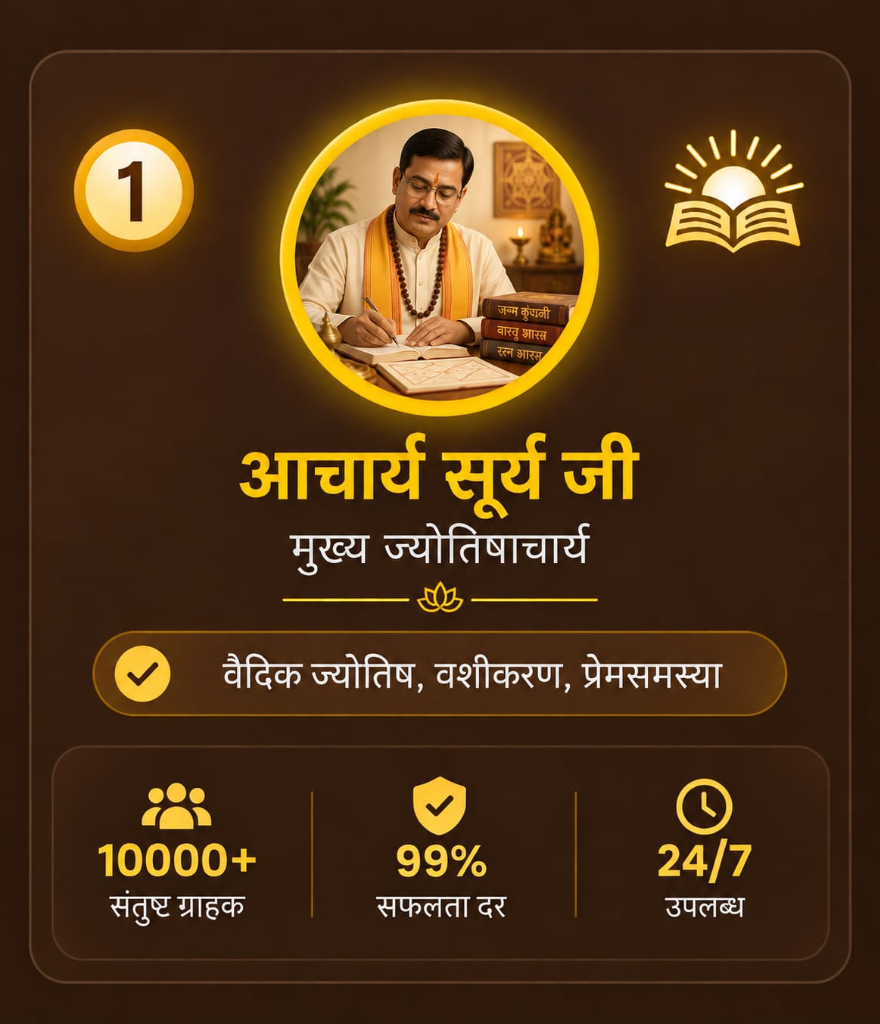
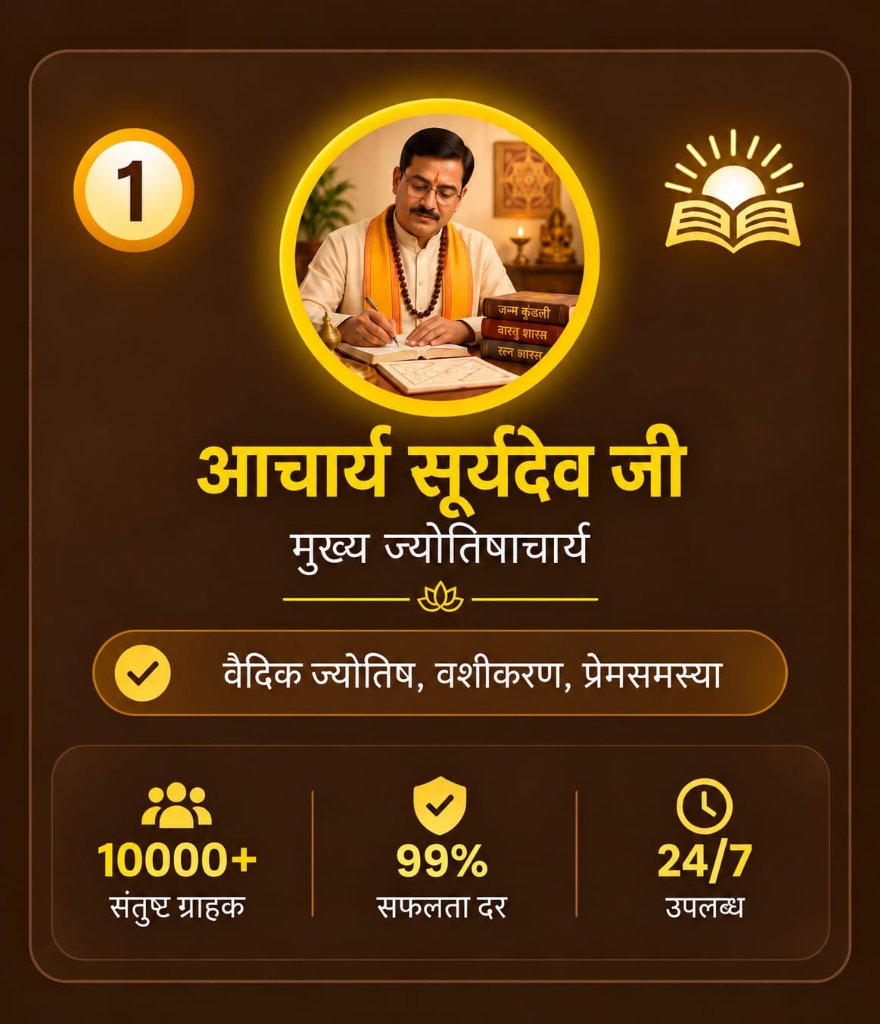
Update Sansthan address to Prayagraj Sobhnath temple and update 1st astrologer card to Acharya Suryadev Ji

diff --git a/client/src/pages/AboutPage.tsx b/client/src/pages/AboutPage.tsx
@@ -1,5 +1,5 @@
 import { Link } from 'react-router-dom';
-import { Shield, Heart, Award, Compass, Eye, Target, Calendar, CheckCircle2, Sparkles } from 'lucide-react';
+import { Shield, Heart, Award, Compass, Eye, Target, Calendar, CheckCircle2, Sparkles, MapPin } from 'lucide-react';
 import { SectionHeading } from '@/components/ui/SectionHeading';
 import { Reveal } from '@/components/ui/Reveal';
 import { CTASection } from '@/components/sections/CTASection';
@@ -92,6 +92,14 @@ export function AboutPage() {
             name: 'Sangam Jyotish Sansthan',
             alternateName: 'संगम ज्योतिष संस्थान',
             url: 'https://sangamjyotish.com',
+            address: {
+              '@type': 'PostalAddress',
+              streetAddress: 'शोभनाथ मंदिर (Sobhnath Temple), बेलन नदी के तट पर',
+              addressLocality: 'कोरांव (Koraon), प्रयागराज (Prayagraj)',
+              addressRegion: 'Uttar Pradesh',
+              postalCode: '212306',
+              addressCountry: 'IN',
+            },
           },
         }}
       />
@@ -193,6 +201,36 @@ export function AboutPage() {
         <div className="container-px">
           <Reveal>
             <KundliChartSection />
+          </Reveal>
+        </div>
+      </section>
+
+      {/* Sacred Location & Temple Heritage */}
+      <section className="section-pad bg-cream-100/60 border-y border-gold-200/40">
+        <div className="container-px">
+          <Reveal>
+            <div className="mx-auto max-w-4xl rounded-3xl border border-gold-400/30 bg-gradient-to-br from-maroon-950 via-maroon-900 to-navy-950 p-8 sm:p-10 shadow-card text-cream-50 relative overflow-hidden">
+              <div className="starfield absolute inset-0 opacity-20" aria-hidden />
+              <div className="relative z-10 flex flex-col md:flex-row items-center gap-6 md:gap-8">
+                <div className="flex h-20 w-20 flex-shrink-0 items-center justify-center rounded-2xl bg-gold-400/20 text-gold-300 ring-2 ring-gold-400/30 shadow-soft">
+                  <MapPin className="h-10 w-10 text-gold-400" />
+                </div>
+                <div className="text-center md:text-left">
+                  <span className="inline-block rounded-full bg-gold-400/15 border border-gold-400/30 px-3.5 py-1 text-xs font-semibold text-gold-300 mb-2">
+                    पावन तीर्थ स्थल एवं मुख्य केंद्र
+                  </span>
+                  <h3 className="font-devanagari text-2xl font-bold text-cream-50 sm:text-3xl" lang="hi">
+                    शोभनाथ मंदिर (Sobhnath Temple), बेलन नदी तट
+                  </h3>
+                  <p className="mt-2 text-sm sm:text-base text-cream-100/85 leading-relaxed" lang="hi">
+                    संगम ज्योतिष संस्थान का पावन केंद्र प्रयागराज के कोरांव (212306) में पवित्र बेलन नदी के तट पर स्थित ऐतिहासिक <strong>शोभनाथ मंदिर (Sobhnath Mandir)</strong> के सानिध्य में स्थापित है। इस आध्यात्मिक एवं शांत वातावरण में जातक ऑफलाइन व्यक्तिगत परामर्श एवं पूजन-अनुष्ठान हेतु पधार सकते हैं।
+                  </p>
+                  <p className="mt-3 text-xs sm:text-sm font-medium text-gold-300">
+                    📍 Sangam Jyotish Sansthan, Koraon, Prayagraj, Uttar Pradesh, 212306, India
+                  </p>
+                </div>
+              </div>
+            </div>
           </Reveal>
         </div>
       </section>

diff --git a/client/src/pages/ContactPage.tsx b/client/src/pages/ContactPage.tsx
@@ -34,7 +34,10 @@ export function ContactPage() {
             email: 'contact@sangamjyotish.com',
             address: {
               '@type': 'PostalAddress',
-              addressLocality: 'Varanasi',
+              streetAddress: 'शोभनाथ मंदिर (Sobhnath Temple), बेलन नदी के तट पर',
+              addressLocality: 'कोरांव (Koraon), प्रयागराज (Prayagraj)',
+              addressRegion: 'Uttar Pradesh',
+              postalCode: '212306',
               addressCountry: 'IN',
             },
           },
@@ -163,18 +166,24 @@ export function ContactPage() {
               {/* Address Card */}
               <Reveal delay={300}>
                 <div className="card-premium flex items-start gap-4 p-5">
-                  <div className="flex h-12 w-12 flex-shrink-0 items-center justify-center rounded-2xl bg-navy-50 text-navy-700">
+                  <div className="flex h-12 w-12 flex-shrink-0 items-center justify-center rounded-2xl bg-maroon-50 text-maroon-700">
                     <MapPin className="h-5 w-5" />
                   </div>
                   <div>
                     <h3 className="text-xs font-semibold text-saffron-600 uppercase tracking-wider">
                       संस्थान का पता (Sansthan Address)
                     </h3>
-                    <p className="mt-1 text-sm font-medium text-navy-800">
-                      {siteConfig.address}
+                    <p className="mt-1 text-sm font-bold text-navy-900">
+                      शोभनाथ मंदिर (Sobhnath Temple)
                     </p>
-                    <p className="text-xs text-navy-500 mt-0.5">
-                      ऑफलाइन व्यक्तिगत परामर्श हेतु
+                    <p className="text-xs text-navy-700 mt-0.5">
+                      बेलन नदी के तट पर, कोरांव (Koraon), प्रयागराज, उत्तर प्रदेश - 212306, भारत
+                    </p>
+                    <p className="text-[11px] text-navy-500 mt-1 font-sans">
+                      Sangam Jyotish Sansthan, Prayagraj, Uttar Pradesh, 212306, India
+                    </p>
+                    <p className="text-xs text-maroon-700 font-medium mt-1.5">
+                      ✦ ऑफलाइन व्यक्तिगत परामर्श एवं दर्शन हेतु
                     </p>
                   </div>
                 </div>

diff --git a/client/src/pages/AstrologersPage.tsx b/client/src/pages/AstrologersPage.tsx
@@ -21,12 +21,12 @@ export function AstrologersPage() {
     <div className="bg-cream-50">
       <SEO
         title="हमारे ज्योतिषाचार्य | वैदिक ज्योतिष विशेषज्ञ"
-        description="संगम ज्योतिष संस्थान के अनुभवी एवं विद्वान ज्योतिषाचार्यों से मिलें - आचार्य सूर्य जी, आचार्य हरिओम जी, आचार्य अरुण पंडित एवं माता रेणुका जी से व्यक्तिगत ज्योतिष परामर्श प्राप्त करें।"
+        description="संगम ज्योतिष संस्थान के अनुभवी एवं विद्वान ज्योतिषाचार्यों से मिलें - आचार्य सूर्यदेव जी, आचार्य हरिओम जी, आचार्य अरुण पंडित एवं माता रेणुका जी से व्यक्तिगत ज्योतिष परामर्श प्राप्त करें।"
         canonical="/astrologers"
         keywords={[
           'हमारे ज्योतिषाचार्य',
           'वैदिक ज्योतिष विशेषज्ञ',
-          'आचार्य सूर्य जी',
+          'आचार्य सूर्यदेव जी',
           'आचार्य हरिओम जी',
           'आचार्य अरुण पंडित',
           'माता रेणुका जी ज्योतिषी',

diff --git a/client/src/data/content.ts b/client/src/data/content.ts
@@ -230,6 +230,11 @@ export const faqs = [
     answer:
       'नहीं, हमारा दृष्टिकोण पारंपरिक एवं सात्विक वैदिक उपायों (जैसे जप, ध्यान, दान, सात्विक आचरण और जीवनशैली में सकारात्मक परिवर्तन) पर आधारित है, जो सरल एवं व्यावहारिक होते हैं।',
   },
+  {
+    question: 'संगम ज्योतिष संस्थान का मुख्य केंद्र कहाँ स्थित है और क्या व्यक्तिगत रूप से मिलकर परामर्श लिया जा सकता है?',
+    answer:
+      'संगम ज्योतिष संस्थान का पावन केंद्र प्रयागराज के कोरांव (212306) में बेलन नदी के तट पर स्थित शोभनाथ मंदिर (Sobhnath Temple / Shobhnath Mandir) परिसर में स्थित है। आप पूर्व समय निर्धारित करके व्यक्तिगत रूप से उपस्थित होकर भी परामर्श प्राप्त कर सकते हैं। इसके अतिरिक्त देश-विदेश के जातकों के लिए ऑनलाइन व WhatsApp परामर्श सुविधा भी निरंतर उपलब्ध है।',
+  },
 ];
 
 export interface Stat {

diff --git a/client/src/components/layout/TopBar.tsx b/client/src/components/layout/TopBar.tsx
@@ -1,4 +1,4 @@
-import { Phone, Facebook, Instagram, Youtube } from 'lucide-react';
+import { Phone, Facebook, Instagram, Youtube, MapPin } from 'lucide-react';
 import { siteConfig } from '@/data/siteConfig';
 import { useWhatsAppModal } from '@/context/WhatsAppModalContext';
 
@@ -8,13 +8,19 @@ export function TopBar() {
   return (
     <div className="hidden bg-navy-950 text-cream-100 md:block">
       <div className="container-px flex h-10 items-center justify-between text-sm">
-        <a
-          href={siteConfig.telUrl}
-          className="flex items-center gap-2 transition-colors hover:text-gold-300"
-        >
-          <Phone className="h-3.5 w-3.5 text-gold-400" />
-          <span className="font-medium">Call Us: {siteConfig.phone}</span>
-        </a>
+        <div className="flex items-center gap-6">
+          <a
+            href={siteConfig.telUrl}
+            className="flex items-center gap-2 transition-colors hover:text-gold-300"
+          >
+            <Phone className="h-3.5 w-3.5 text-gold-400" />
+            <span className="font-medium">Call Us: {siteConfig.phone}</span>
+          </a>
+          <span className="hidden lg:flex items-center gap-1.5 text-xs text-cream-100/75 border-l border-navy-800 pl-6">
+            <MapPin className="h-3.5 w-3.5 text-gold-400" />
+            <span>शोभनाथ मंदिर, कोरांव, प्रयागराज (212306)</span>
+          </span>
+        </div>
         <div className="flex items-center gap-3">
           <span className="text-cream-100/60">हमसे जुड़ें:</span>
           <button

diff --git a/client/index.html b/client/index.html
@@ -23,10 +23,10 @@
     <meta name="bingbot" content="index, follow" />
     <meta name="language" content="Hindi, English" />
     <meta http-equiv="content-language" content="hi, en" />
-    <meta name="geo.region" content="IN" />
-    <meta name="geo.placename" content="India" />
-    <meta name="geo.position" content="25.3176;82.9739" />
-    <meta name="ICBM" content="25.3176, 82.9739" />
+    <meta name="geo.region" content="IN-UP" />
+    <meta name="geo.placename" content="Prayagraj, Koraon, Uttar Pradesh, India" />
+    <meta name="geo.position" content="24.9080;81.9965" />
+    <meta name="ICBM" content="24.9080, 81.9965" />
     <link rel="canonical" href="https://sangamjyotish.com/" />
 
     <!-- Open Graph / Facebook -->
@@ -75,14 +75,16 @@
           "email": "contact@sangamjyotish.com",
           "address": {
             "@type": "PostalAddress",
-            "addressLocality": "Varanasi",
+            "streetAddress": "शोभनाथ मंदिर (Sobhnath Temple), बेलन नदी के तट पर",
+            "addressLocality": "कोरांव (Koraon), प्रयागराज (Prayagraj)",
             "addressRegion": "Uttar Pradesh",
+            "postalCode": "212306",
             "addressCountry": "IN"
           },
           "geo": {
             "@type": "GeoCoordinates",
-            "latitude": "25.3176",
-            "longitude": "82.9739"
+            "latitude": "24.9080",
+            "longitude": "81.9965"
           },
           "priceRange": "₹₹",
           "openingHours": "Mo-Su 09:00-20:00",

diff --git a/client/src/components/layout/Footer.tsx b/client/src/components/layout/Footer.tsx
@@ -1,5 +1,5 @@
 import { Link } from 'react-router-dom';
-import { Phone, Facebook, Instagram, Youtube, MessageCircle } from 'lucide-react';
+import { Phone, Facebook, Instagram, Youtube, MessageCircle, MapPin } from 'lucide-react';
 import { siteConfig } from '@/data/siteConfig';
 import { useWhatsAppModal } from '@/context/WhatsAppModalContext';
 
@@ -158,6 +158,15 @@ export function Footer() {
                   <MessageCircle className="h-4 w-4 flex-shrink-0 text-[#25D366]" />
                   <span>WhatsApp परामर्श</span>
                 </button>
+              </li>
+              <li>
+                <div className="flex items-start gap-2.5 text-cream-100/85">
+                  <MapPin className="h-4 w-4 flex-shrink-0 text-gold-400 mt-0.5" />
+                  <div className="text-xs leading-relaxed">
+                    <p className="font-semibold text-cream-50" lang="hi">शोभनाथ मंदिर (Sobhnath Temple)</p>
+                    <p className="text-cream-100/75" lang="hi">बेलन नदी तट, कोरांव, प्रयागराज (उ.प्र.) - 212306</p>
+                  </div>
+                </div>
               </li>
               <li className="text-cream-100/70 pt-1 text-xs sm:text-sm">
                 <span className="text-gold-300/90 font-semibold" lang="hi">परामर्श समय:</span>{' '}

diff --git a/client/src/data/siteConfig.ts b/client/src/data/siteConfig.ts
@@ -12,6 +12,20 @@ export const siteConfig = {
   telUrl: env.telUrl,
   email: env.email,
   address: env.address,
+  addressDetails: {
+    temple: 'शोभनाथ मंदिर (Sobhnath Temple)',
+    templeEn: 'Shobhnath Mandir (Sobhnath Temple)',
+    river: 'बेलन नदी के तट पर',
+    riverEn: 'Banks of Belan River',
+    locality: 'कोरांव (Koraon)',
+    city: 'प्रयागराज (Prayagraj)',
+    state: 'उत्तर प्रदेश (Uttar Pradesh)',
+    pincode: '212306',
+    country: 'भारत (India)',
+    fullAddressHindi: 'शोभनाथ मंदिर, बेलन नदी तट, कोरांव, प्रयागराज, उत्तर प्रदेश - 212306',
+    fullAddressEn: 'Sobhnath Temple, Belan River Bank, Koraon, Prayagraj, Uttar Pradesh - 212306, India',
+    shortAddress: 'शोभनाथ मंदिर, कोरांव, प्रयागराज (212306)',
+  },
   siteUrl: env.siteUrl,
   social: {
     whatsapp: env.whatsappUrl,

diff --git a/client/src/pages/HomePage.tsx b/client/src/pages/HomePage.tsx
@@ -49,6 +49,10 @@ export function HomePage() {
           description: 'प्रामाणिक वैदिक ज्योतिष, कुंडली विश्लेषण, विवाह एवं कुंडली मिलान, करियर, व्यापार, वास्तु और व्यक्तिगत ज्योतिष परामर्श।',
           address: {
             '@type': 'PostalAddress',
+            streetAddress: 'शोभनाथ मंदिर (Sobhnath Temple), बेलन नदी तट',
+            addressLocality: 'कोरांव (Koraon), प्रयागराज (Prayagraj)',
+            addressRegion: 'Uttar Pradesh',
+            postalCode: '212306',
             addressCountry: 'IN',
           },
           aggregateRating: {

diff --git a/client/src/env/index.ts b/client/src/env/index.ts
@@ -41,7 +41,7 @@ export const env: EnvConfig = {
   whatsappUrl: `https://wa.me/${whatsappNum.replace(/[^0-9]/g, '')}`,
   telUrl: `tel:${rawPhone.replace(/\s+/g, '')}`,
   email: getEnv('VITE_EMAIL', 'contact@sangamjyotish.com'),
-  address: getEnv('VITE_ADDRESS', 'वाराणसी / हरिद्वार / दिल्ली एनसीआर, भारत'),
+  address: getEnv('VITE_ADDRESS', 'शोभनाथ मंदिर (Sobhnath Temple), बेलन नदी तट, कोरांव, प्रयागराज, उत्तर प्रदेश - 212306, भारत'),
   facebookUrl: getEnv('VITE_FACEBOOK_URL', '#'),
   instagramUrl: getEnv('VITE_INSTAGRAM_URL', '#'),
   youtubeUrl: getEnv('VITE_YOUTUBE_URL', '#'),

diff --git a/client/src/data/astrologers.ts b/client/src/data/astrologers.ts
@@ -11,8 +11,8 @@ export interface Astrologer {
 
 export const astrologers: Astrologer[] = [
   {
-    id: 'acharya-surya',
-    name: 'आचार्य सूर्य जी',
+    id: 'acharya-suryadev',
+    name: 'आचार्य सूर्यदेव जी',
     designation: 'मुख्य ज्योतिषाचार्य',
     image: '/images/astrologer-1.png',
     specializations: ['वैदिक ज्योतिष', 'वशीकरण', 'प्रेमसमस्या'],
